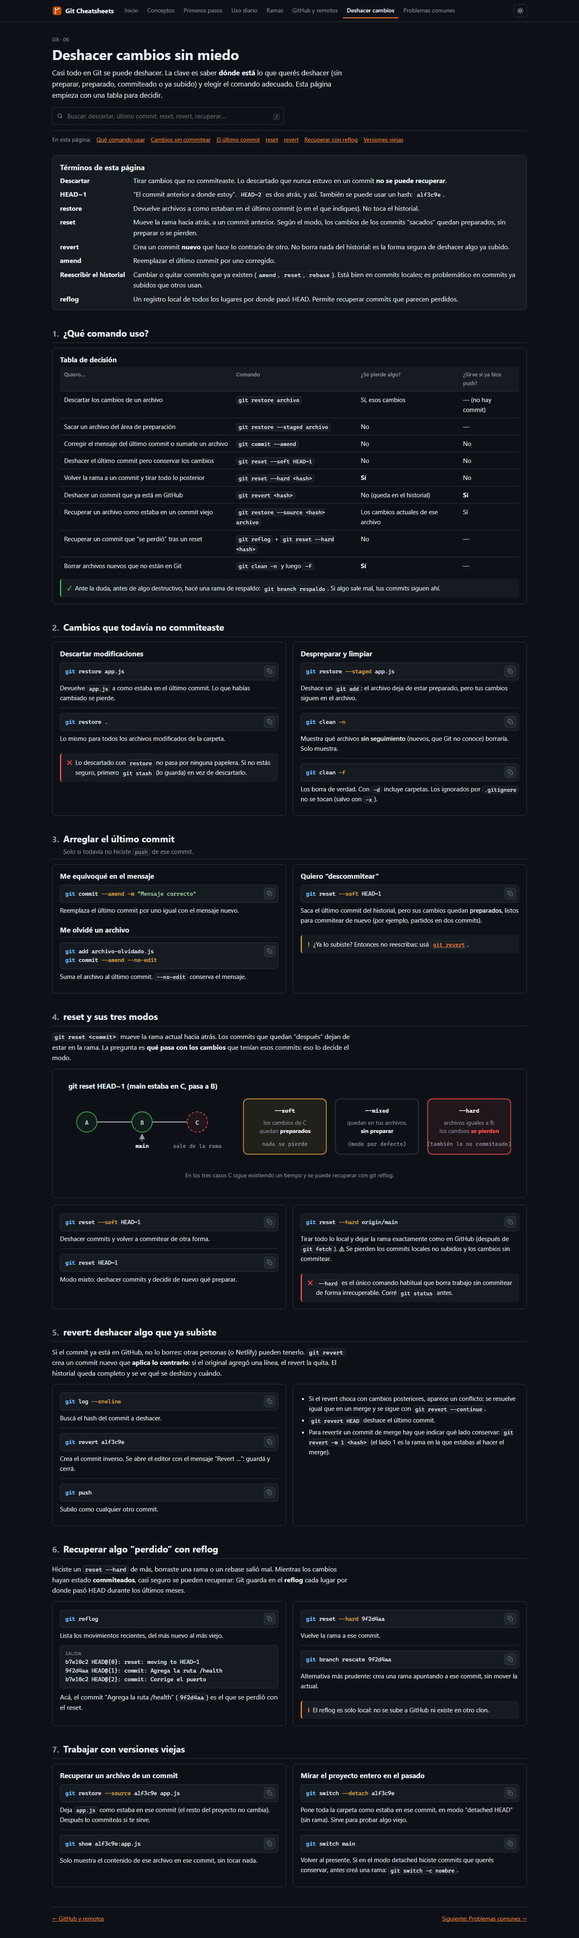
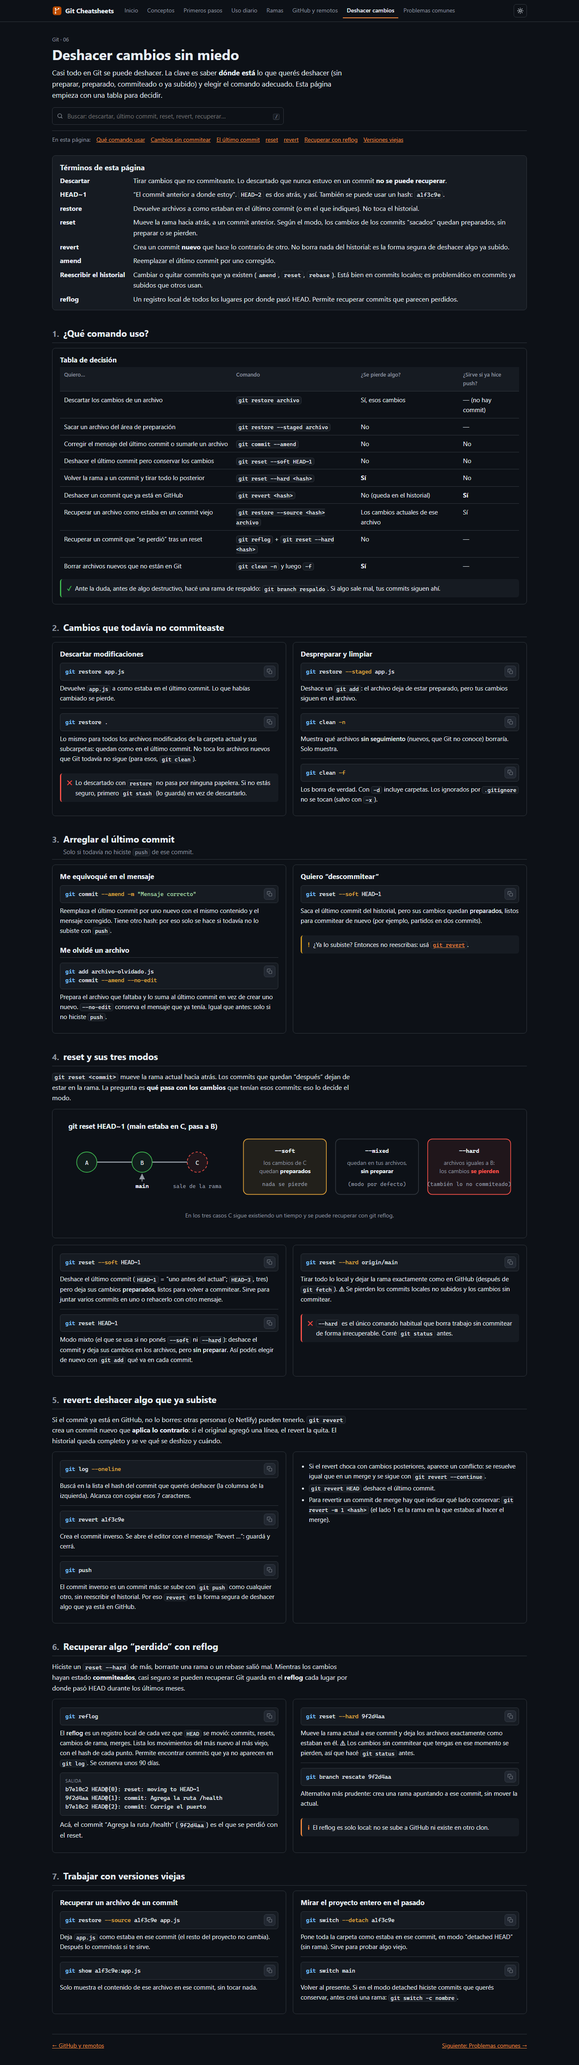
Amplía las descripciones cortas de comandos
Uso diario, ramas, GitHub, deshacer y primeros pasos. Regenera los PNG.

diff --git a/03-uso-diario.html b/03-uso-diario.html
@@ -94,9 +94,9 @@ Untracked files:
       <div class="titles"><h2>Preparar cambios (git add)</h2><p>Elegir qué va a entrar en el próximo commit.</p></div>
     </div>
     <div class="card">
-      <div class="cmd"><pre><code>git add app.js</code></pre><div class="what">Prepara un archivo puntual.</div></div>
+      <div class="cmd"><pre><code>git add app.js</code></pre><div class="what">Prepara solo ese archivo para el próximo commit; el resto de los cambios queda afuera. Podés nombrar varios separados por espacio (<code>git add app.js package.json</code>).</div></div>
       <div class="cmd"><pre><code>git add .</code></pre><div class="what">Prepara <b>todo</b> lo que cambió en la carpeta actual y sus subcarpetas (respetando el <code>.gitignore</code>). Mirá <code>git status</code> antes para no incluir algo de más.</div></div>
-      <div class="cmd"><pre><code>git add src/</code></pre><div class="what">Prepara todo lo de una carpeta.</div></div>
+      <div class="cmd"><pre><code>git add src/</code></pre><div class="what">Prepara todo lo que cambió dentro de la carpeta <code>src/</code> y sus subcarpetas, sin tocar lo que cambió fuera de ella.</div></div>
       <div class="cmd"><pre><code>git add -p</code></pre><div class="what">Modo interactivo: te muestra cada bloque de cambios y preguntás uno por uno (<code>y</code> = sí, <code>n</code> = no, <code>q</code> = salir). Sirve para dividir un archivo con dos cambios distintos en dos commits.</div></div>
       <div class="cmd"><pre><code>git restore --staged app.js</code></pre><div class="what">Lo contrario de <code>add</code>: saca el archivo del área de preparación. <b>No</b> pierde tus cambios; solo dejan de estar preparados.</div></div>
     </div>
@@ -111,7 +111,7 @@ Untracked files:
     <div class="grid cols-2">
       <div class="card">
         <h3>Formas de commitear</h3>
-        <div class="cmd"><pre><code>git commit -m "Agrega la ruta /health"</code></pre><div class="what">Guarda lo preparado con ese mensaje.</div></div>
+        <div class="cmd"><pre><code>git commit -m "Agrega la ruta /health"</code></pre><div class="what">Guarda en el historial todo lo que está preparado (lo que agregaste con <code>git add</code>), con ese mensaje. Lo no preparado queda sin guardar en la carpeta. Escribí el mensaje en presente y diciendo qué cambia, para que se entienda al leer el historial.</div></div>
         <div class="cmd"><pre><code>git commit</code></pre><div class="what">Sin <code>-m</code>, Git abre el editor configurado para que escribas un mensaje largo. Primera línea = título; línea vacía; después el detalle. Guardá y cerrá el editor para terminar.</div></div>
         <div class="cmd"><pre><code>git commit -am "Corrige el puerto"</code></pre><div class="what"><code>-a</code> prepara automáticamente los archivos <b>ya rastreados</b> que cambiaron y commitea en un paso. Los archivos nuevos no entran: esos necesitan <code>git add</code>.</div></div>
         <div class="cmd"><pre><code>git commit --amend -m "Mensaje corregido"</code></pre><div class="what">Reemplaza el <b>último</b> commit (para corregir el mensaje o sumar un archivo olvidado). Usalo solo si todavía no hiciste <code>push</code> de ese commit.</div></div>
@@ -141,21 +141,21 @@ para saber si el Pod está listo para recibir tráfico.</code></pre>
     <div class="grid cols-2">
       <div class="card">
         <h3>Variantes útiles</h3>
-        <div class="cmd"><pre><code>git log --oneline</code></pre><div class="what">Un commit por línea: hash corto y título.</div></div>
+        <div class="cmd"><pre><code>git log --oneline</code></pre><div class="what">Muestra el historial con un commit por línea: el <b>hash</b> corto (el identificador del commit) y la primera línea del mensaje. El más nuevo arriba.</div></div>
         <pre class="out"><code data-lang="plain">3ddb522 (HEAD -&gt; main, origin/main) Desactiva ligaduras en los chips
 71fc95b Update README.md
 279f465 first commit</code></pre>
         <div class="explain"><p><code>HEAD -&gt; main</code>: estás en <code>main</code>. <code>origin/main</code>: hasta dónde llega la rama en GitHub (según el último <code>fetch</code>/<code>pull</code>).</p></div>
         <div class="cmd"><pre><code>git log --oneline --graph --all</code></pre><div class="what">Dibuja las ramas con líneas: ideal para entender cómo se separan y se unen.</div></div>
-        <div class="cmd"><pre><code>git log -5</code></pre><div class="what">Solo los últimos 5 commits, con autor, fecha y mensaje completo.</div></div>
+        <div class="cmd"><pre><code>git log -5</code></pre><div class="what">Muestra solo los últimos 5 commits (cambiá el número a gusto), con el hash completo, autor, fecha y mensaje entero. Si la lista es larga, Git la muestra por páginas: <kbd>Espacio</kbd> avanza y <kbd>q</kbd> sale.</div></div>
       </div>
       <div class="card">
         <h3>Buscar en el historial</h3>
         <div class="cmd"><pre><code>git log --oneline -- app.js</code></pre><div class="what">Solo los commits que tocaron ese archivo. El <code>--</code> separa opciones de nombres de archivo.</div></div>
-        <div class="cmd"><pre><code>git log --stat</code></pre><div class="what">Además, qué archivos cambió cada commit y cuántas líneas.</div></div>
-        <div class="cmd"><pre><code>git log --author="&lt;nombre&gt;" --since="2 weeks ago"</code></pre><div class="what">Filtrar por autor y fecha.</div></div>
-        <div class="cmd"><pre><code>git log --grep="puerto"</code></pre><div class="what">Commits cuyo mensaje contiene esa palabra.</div></div>
-        <div class="cmd"><pre><code>git show 3ddb522</code></pre><div class="what">Todo sobre un commit: autor, fecha, mensaje y el diff completo.</div></div>
+        <div class="cmd"><pre><code>git log --stat</code></pre><div class="what">Además de cada commit, lista qué archivos tocó y cuántas líneas agregó (<code>+</code>) o quitó (<code>-</code>) en cada uno. Útil para encontrar cuándo se cambió algo.</div></div>
+        <div class="cmd"><pre><code>git log --author="&lt;nombre&gt;" --since="2 weeks ago"</code></pre><div class="what">Filtra el historial: solo commits de esa persona (alcanza con parte del nombre o el email) en las últimas dos semanas. Las fechas aceptan formas como <code>"2026-01-31"</code> o <code>"3 days ago"</code>.</div></div>
+        <div class="cmd"><pre><code>git log --grep="puerto"</code></pre><div class="what">Muestra solo los commits cuyo mensaje contiene esa palabra. Por eso conviene escribir mensajes descriptivos. Agregá <code>-i</code> para no distinguir mayúsculas.</div></div>
+        <div class="cmd"><pre><code>git show 3ddb522</code></pre><div class="what">Muestra todo sobre un commit: autor, fecha, mensaje y el <b>diff</b> (las líneas agregadas en verde con <code>+</code> y las quitadas en rojo con <code>-</code>). Alcanza con los primeros 7 caracteres del hash. <kbd>q</kbd> para salir.</div></div>
       </div>
     </div>
   </section>
@@ -171,9 +171,9 @@ para saber si el Pod está listo para recibir tráfico.</code></pre>
         <h3>Qué compara cada variante</h3>
         <div class="cmd"><pre><code>git diff</code></pre><div class="what">Cambios <b>no preparados</b>: carpeta de trabajo contra el área de preparación.</div></div>
         <div class="cmd"><pre><code>git diff --staged</code></pre><div class="what">Cambios <b>preparados</b>: lo que va a entrar en el próximo commit. Ideal para revisar antes de commitear.</div></div>
-        <div class="cmd"><pre><code>git diff HEAD</code></pre><div class="what">Todo lo que cambió desde el último commit, preparado o no.</div></div>
-        <div class="cmd"><pre><code>git diff main..nueva-ruta</code></pre><div class="what">Diferencias entre dos ramas.</div></div>
-        <div class="cmd"><pre><code>git diff --stat</code></pre><div class="what">Solo el resumen: archivos y cantidad de líneas.</div></div>
+        <div class="cmd"><pre><code>git diff HEAD</code></pre><div class="what">Todo lo que cambió desde el último commit, esté preparado o no. <code>HEAD</code> significa “el commit en el que estás parado”.</div></div>
+        <div class="cmd"><pre><code>git diff main..nueva-ruta</code></pre><div class="what">Muestra qué cambia en <code>nueva-ruta</code> respecto de <code>main</code>: lo que se agregaría al unirlas. Sirve para revisar una rama antes de hacer <code>merge</code> o abrir un pull request.</div></div>
+        <div class="cmd"><pre><code>git diff --stat</code></pre><div class="what">En vez de las líneas, un resumen: qué archivos cambiaron y cuántas líneas en cada uno. Se combina con las otras formas (<code>git diff --staged --stat</code>).</div></div>
       </div>
       <div class="card">
         <h3>Cómo leer un diff</h3>
@@ -217,13 +217,13 @@ para saber si el Pod está listo para recibir tráfico.</code></pre>
       <div class="card">
         <h3>Guardar y recuperar</h3>
         <div class="cmd"><pre><code>git stash push -m "mitad del formulario"</code></pre><div class="what">Guarda los cambios de archivos rastreados con un nombre. Con <code>-u</code> incluye también los archivos nuevos.</div></div>
-        <div class="cmd"><pre><code>git stash list</code></pre><div class="what">Lo que hay en el cajón: <code>stash@{0}</code> es el más reciente.</div></div>
-        <div class="cmd"><pre><code>git stash pop</code></pre><div class="what">Devuelve el último guardado a la carpeta y lo saca del cajón.</div></div>
+        <div class="cmd"><pre><code>git stash list</code></pre><div class="what">Lista lo que guardaste con <code>stash</code>, como un cajón: <code>stash@{0}</code> es lo último que guardaste, <code>stash@{1}</code> lo anterior, y así. Al lado aparece la rama donde estabas y el mensaje.</div></div>
+        <div class="cmd"><pre><code>git stash pop</code></pre><div class="what">Devuelve a tu carpeta los cambios del último stash y lo saca del cajón. Si esos cambios chocan con lo que tenés ahora, aparece un conflicto (se resuelve igual que en un merge) y el stash queda guardado.</div></div>
       </div>
       <div class="card">
         <h3>Más opciones</h3>
         <div class="cmd"><pre><code>git stash apply stash@{1}</code></pre><div class="what">Devuelve uno puntual pero lo deja en el cajón (sirve para aplicarlo en varias ramas).</div></div>
-        <div class="cmd"><pre><code>git stash drop stash@{1}</code></pre><div class="what">Borra uno del cajón.</div></div>
+        <div class="cmd"><pre><code>git stash drop stash@{1}</code></pre><div class="what">Borra un stash puntual sin aplicarlo: esos cambios se pierden. <code>git stash clear</code> vacía el cajón entero.</div></div>
         <div class="callout warn"><span class="ico">!</span><p>El stash es local y temporal: no se sube a GitHub. Para algo que dure, mejor un commit en una rama.</p></div>
       </div>
     </div>
@@ -239,8 +239,8 @@ para saber si el Pod está listo para recibir tráfico.</code></pre>
     <div class="grid cols-2">
       <div class="card">
         <div class="cmd"><pre><code>git tag -a v1.0.0 -m "Primera versión estable"</code></pre><div class="what">Crea un tag “anotado” (con autor, fecha y mensaje) en el commit actual. Es el tipo recomendado.</div></div>
-        <div class="cmd"><pre><code>git tag</code></pre><div class="what">Lista los tags.</div></div>
-        <div class="cmd"><pre><code>git show v1.0.0</code></pre><div class="what">Qué commit marca y su contenido.</div></div>
+        <div class="cmd"><pre><code>git tag</code></pre><div class="what">Lista todos los tags del repositorio, en orden alfabético. <code>git tag -l "v1.*"</code> filtra por patrón.</div></div>
+        <div class="cmd"><pre><code>git show v1.0.0</code></pre><div class="what">Muestra los datos del tag (quién lo creó, cuándo y su mensaje) y el commit al que apunta, con sus cambios. Los tags no se suben solos: <code>git push origin v1.0.0</code> (o <code>--tags</code> para todos).</div></div>
       </div>
       <div class="card">
         <div class="cmd"><pre><code>git push origin v1.0.0</code></pre><div class="what">Los tags <b>no</b> se suben con <code>git push</code> normal: hay que subirlos explícitamente (o todos con <code>git push --tags</code>).</div></div>

diff --git a/06-deshacer.html b/06-deshacer.html
@@ -95,7 +95,7 @@
       <div class="card">
         <h3>Descartar modificaciones</h3>
         <div class="cmd"><pre><code>git restore app.js</code></pre><div class="what">Devuelve <code>app.js</code> a como estaba en el último commit. Lo que habías cambiado se pierde.</div></div>
-        <div class="cmd"><pre><code>git restore .</code></pre><div class="what">Lo mismo para todos los archivos modificados de la carpeta.</div></div>
+        <div class="cmd"><pre><code>git restore .</code></pre><div class="what">Lo mismo para todos los archivos modificados de la carpeta actual y sus subcarpetas: quedan como en el último commit. No toca los archivos nuevos que Git todavía no sigue (para esos, <code>git clean</code>).</div></div>
         <div class="callout bad"><span class="ico">✕</span><p>Lo descartado con <code>restore</code> no pasa por ninguna papelera. Si no estás seguro, primero <code>git stash</code> (lo guarda) en vez de descartarlo.</p></div>
       </div>
       <div class="card">
@@ -116,10 +116,10 @@
     <div class="grid cols-2">
       <div class="card">
         <h3>Me equivoqué en el mensaje</h3>
-        <div class="cmd"><pre><code>git commit --amend -m "Mensaje correcto"</code></pre><div class="what">Reemplaza el último commit por uno igual con el mensaje nuevo.</div></div>
+        <div class="cmd"><pre><code>git commit --amend -m "Mensaje correcto"</code></pre><div class="what">Reemplaza el último commit por uno nuevo con el mismo contenido y el mensaje corregido. Tiene otro hash: por eso solo se hace si todavía no lo subiste con <code>push</code>.</div></div>
         <h3 style="margin-top:12px">Me olvidé un archivo</h3>
         <div class="cmd"><pre><code>git add archivo-olvidado.js
-git commit --amend --no-edit</code></pre><div class="what">Suma el archivo al último commit. <code>--no-edit</code> conserva el mensaje.</div></div>
+git commit --amend --no-edit</code></pre><div class="what">Prepara el archivo que faltaba y lo suma al último commit en vez de crear uno nuevo. <code>--no-edit</code> conserva el mensaje que ya tenía. Igual que antes: solo si no hiciste <code>push</code>.</div></div>
       </div>
       <div class="card">
         <h3>Quiero “descommitear”</h3>
@@ -174,8 +174,8 @@ git commit --amend --no-edit</code></pre><div class="what">Suma el archivo al ú
     </div>
     <div class="grid cols-2" style="margin-top:16px">
       <div class="card">
-        <div class="cmd"><pre><code>git reset --soft HEAD~1</code></pre><div class="what">Deshacer commits y volver a commitear de otra forma.</div></div>
-        <div class="cmd"><pre><code>git reset HEAD~1</code></pre><div class="what">Modo mixto: deshacer commits y decidir de nuevo qué preparar.</div></div>
+        <div class="cmd"><pre><code>git reset --soft HEAD~1</code></pre><div class="what">Deshace el último commit (<code>HEAD~1</code> = “uno antes del actual”; <code>HEAD~3</code>, tres) pero deja sus cambios <b>preparados</b>, listos para volver a commitear. Sirve para juntar varios commits en uno o rehacerlo con otro mensaje.</div></div>
+        <div class="cmd"><pre><code>git reset HEAD~1</code></pre><div class="what">Modo mixto (el que se usa si no ponés <code>--soft</code> ni <code>--hard</code>): deshace el commit y deja sus cambios en los archivos, pero <b>sin preparar</b>. Así podés elegir de nuevo con <code>git add</code> qué va en cada commit.</div></div>
       </div>
       <div class="card">
         <div class="cmd"><pre><code>git reset --hard origin/main</code></pre><div class="what">Tirar todo lo local y dejar la rama exactamente como en GitHub (después de <code>git fetch</code>). ⚠ Se pierden los commits locales no subidos y los cambios sin commitear.</div></div>
@@ -193,9 +193,9 @@ git commit --amend --no-edit</code></pre><div class="what">Suma el archivo al ú
     <div class="explain"><p>Si el commit ya está en GitHub, no lo borres: otras personas (o Netlify) pueden tenerlo. <code>git revert</code> crea un commit nuevo que <b>aplica lo contrario</b>: si el original agregó una línea, el revert la quita. El historial queda completo y se ve qué se deshizo y cuándo.</p></div>
     <div class="grid cols-2">
       <div class="card">
-        <div class="cmd"><pre><code>git log --oneline</code></pre><div class="what">Buscá el hash del commit a deshacer.</div></div>
+        <div class="cmd"><pre><code>git log --oneline</code></pre><div class="what">Buscá en la lista el hash del commit que querés deshacer (la columna de la izquierda). Alcanza con copiar esos 7 caracteres.</div></div>
         <div class="cmd"><pre><code>git revert a1f3c9e</code></pre><div class="what">Crea el commit inverso. Se abre el editor con el mensaje “Revert …”: guardá y cerrá.</div></div>
-        <div class="cmd"><pre><code>git push</code></pre><div class="what">Subilo como cualquier otro commit.</div></div>
+        <div class="cmd"><pre><code>git push</code></pre><div class="what">El commit inverso es un commit más: se sube con <code>git push</code> como cualquier otro, sin reescribir el historial. Por eso <code>revert</code> es la forma segura de deshacer algo que ya está en GitHub.</div></div>
       </div>
       <div class="card">
         <ul>
@@ -216,14 +216,14 @@ git commit --amend --no-edit</code></pre><div class="what">Suma el archivo al ú
     <div class="explain"><p>Hiciste un <code>reset --hard</code> de más, borraste una rama o un rebase salió mal. Mientras los cambios hayan estado <b>commiteados</b>, casi seguro se pueden recuperar: Git guarda en el <b>reflog</b> cada lugar por donde pasó HEAD durante los últimos meses.</p></div>
     <div class="grid cols-2">
       <div class="card">
-        <div class="cmd"><pre><code>git reflog</code></pre><div class="what">Lista los movimientos recientes, del más nuevo al más viejo.</div></div>
+        <div class="cmd"><pre><code>git reflog</code></pre><div class="what">El <b>reflog</b> es un registro local de cada vez que <code>HEAD</code> se movió: commits, resets, cambios de rama, merges. Lista los movimientos del más nuevo al más viejo, con el hash de cada punto. Permite encontrar commits que ya no aparecen en <code>git log</code>. Se conserva unos 90 días.</div></div>
         <pre class="out"><code data-lang="plain">b7e10c2 HEAD@{0}: reset: moving to HEAD~1
 9f2d4aa HEAD@{1}: commit: Agrega la ruta /health
 b7e10c2 HEAD@{2}: commit: Corrige el puerto</code></pre>
         <div class="explain" style="margin-top:8px"><p>Acá, el commit “Agrega la ruta /health” (<code>9f2d4aa</code>) es el que se perdió con el reset.</p></div>
       </div>
       <div class="card">
-        <div class="cmd"><pre><code>git reset --hard 9f2d4aa</code></pre><div class="what">Vuelve la rama a ese commit.</div></div>
+        <div class="cmd"><pre><code>git reset --hard 9f2d4aa</code></pre><div class="what">Mueve la rama actual a ese commit y deja los archivos exactamente como estaban en él. ⚠ Los cambios sin commitear que tengas en ese momento se pierden, así que hacé <code>git status</code> antes.</div></div>
         <div class="cmd"><pre><code>git branch rescate 9f2d4aa</code></pre><div class="what">Alternativa más prudente: crea una rama apuntando a ese commit, sin mover la actual.</div></div>
         <div class="callout info"><span class="ico">i</span><p>El reflog es solo local: no se sube a GitHub ni existe en otro clon.</p></div>
       </div>

diff --git a/04-ramas.html b/04-ramas.html
@@ -108,16 +108,16 @@
         <h3>Crear y cambiar</h3>
         <div class="cmd"><pre><code>git switch -c nueva-ruta</code></pre><div class="what">Crea la rama <code>nueva-ruta</code> a partir del commit actual y se cambia a ella (<code>-c</code> = <i>create</i>). Es lo que vas a usar casi siempre.</div></div>
         <div class="cmd"><pre><code>git switch main</code></pre><div class="what">Cambia a una rama que ya existe. Los archivos de la carpeta pasan a ser los de esa rama.</div></div>
-        <div class="cmd"><pre><code>git switch -</code></pre><div class="what">Vuelve a la rama anterior (como el “atrás” del navegador).</div></div>
+        <div class="cmd"><pre><code>git switch -</code></pre><div class="what">Vuelve a la rama en la que estabas antes del último cambio, como el botón “atrás” del navegador. Repetirlo te lleva de nuevo a la otra: sirve para ir y venir entre dos ramas.</div></div>
         <div class="callout info"><span class="ico">i</span><p>En tutoriales viejos vas a ver <code>git checkout -b nueva-ruta</code> y <code>git checkout main</code>: hacen lo mismo.</p></div>
       </div>
       <div class="card">
         <h3>Ver, renombrar y borrar</h3>
-        <div class="cmd"><pre><code>git branch</code></pre><div class="what">Lista las ramas locales; la actual tiene <code>*</code>.</div></div>
-        <div class="cmd"><pre><code>git branch -a</code></pre><div class="what">Incluye las ramas del remoto (aparecen como <code>remotes/origin/...</code>).</div></div>
-        <div class="cmd"><pre><code>git branch -m nombre-nuevo</code></pre><div class="what">Renombra la rama actual.</div></div>
+        <div class="cmd"><pre><code>git branch</code></pre><div class="what">Lista las ramas que tenés en tu PC; la actual está marcada con <code>*</code>. Con <code>-v</code> muestra además el último commit de cada una.</div></div>
+        <div class="cmd"><pre><code>git branch -a</code></pre><div class="what">Incluye las ramas del remoto que Git conoce desde el último <code>fetch</code>; aparecen como <code>remotes/origin/nombre</code>. Para trabajar en una de ellas, <code>git switch nombre</code> crea la rama local conectada.</div></div>
+        <div class="cmd"><pre><code>git branch -m nombre-nuevo</code></pre><div class="what">Cambia el nombre de la rama en la que estás (<code>-m</code> = <i>move</i>). Si ya la habías subido, en GitHub sigue con el nombre viejo: subí la nueva con <code>git push -u origin nombre-nuevo</code> y borrá la vieja allá.</div></div>
         <div class="cmd"><pre><code>git branch -d nueva-ruta</code></pre><div class="what">Borra una rama que ya se unió. Si tiene commits sin unir, Git se niega para protegerte; <code>-D</code> la borra igual (se pierden esos commits).</div></div>
-        <div class="cmd"><pre><code>git push origin --delete nueva-ruta</code></pre><div class="what">Borra la rama en GitHub.</div></div>
+        <div class="cmd"><pre><code>git push origin --delete nueva-ruta</code></pre><div class="what">Borra la rama en GitHub (en el remoto <code>origin</code>). <code>git branch -d</code> solo borra la copia de tu PC; para quitarla de los dos lados, hacen falta los dos comandos.</div></div>
       </div>
     </div>
     <div class="callout warn"><span class="ico">!</span><p><b>Cambios sin commitear al cambiar de rama:</b> si tus cambios no chocan con la otra rama, viajan con vos. Si chocan, Git no te deja cambiar (<i>“Your local changes would be overwritten”</i>). Commiteá primero o guardalos con <code>git stash</code>.</p></div>
@@ -138,7 +138,7 @@
 git pull
 git merge nueva-ruta</code></pre><div class="what">1) Ir a la rama destino. 2) Traer lo último del remoto. 3) Unir <code>nueva-ruta</code> dentro de <code>main</code>.</div></div>
         <div class="cmd"><pre><code>git push
-git branch -d nueva-ruta</code></pre><div class="what">Subir el resultado y borrar la rama, que ya no hace falta.</div></div>
+git branch -d nueva-ruta</code></pre><div class="what"><code>git push</code> sube a GitHub el <code>main</code> con la rama ya unida. Después, <code>git branch -d</code> borra la rama local: sus commits ya forman parte de <code>main</code>, así que no se pierde nada.</div></div>
       </div>
       <div class="card">
         <h3>Qué podés ver al hacer merge</h3>

diff --git a/02-primeros-pasos.html b/02-primeros-pasos.html
@@ -115,7 +115,7 @@
         <h3>Quién sos (obligatorio)</h3>
         <div class="explain"><p>Cada commit guarda nombre y email del autor. Sin esto, Git no te deja hacer commits. Usá <b>el mismo email que tu cuenta de GitHub</b>, así GitHub asocia los commits con tu perfil.</p></div>
         <div class="cmd"><pre><code>git config --global user.name "&lt;Tu Nombre&gt;"
-git config --global user.email "&lt;tu-email@ejemplo.com&gt;"</code></pre><div class="what">Las comillas son necesarias si el nombre tiene espacios.</div></div>
+git config --global user.email "&lt;tu-email@ejemplo.com&gt;"</code></pre><div class="what">Le dice a Git qué nombre poner como autor en cada commit que hagas (<code>--global</code> = para todos los proyectos de esta PC). Las comillas son necesarias si el nombre tiene espacios. Se configura una sola vez.</div></div>
       </div>
       <div class="card">
         <h3>Preferencias recomendadas</h3>
@@ -125,7 +125,7 @@ git config --global user.email "&lt;tu-email@ejemplo.com&gt;"</code></pre><div c
       </div>
       <div class="card wide">
         <h3>Revisar lo configurado</h3>
-        <div class="cmd"><pre><code>git config --global --list</code></pre><div class="what">Muestra toda tu configuración global.</div></div>
+        <div class="cmd"><pre><code>git config --global --list</code></pre><div class="what">Muestra toda tu configuración global, una línea por opción (<code>user.name=…</code>, <code>user.email=…</code>). Sirve para comprobar que quedó bien. Si la lista es larga, <kbd>q</kbd> sale.</div></div>
         <pre class="out"><code data-lang="plain">user.name=Tu Nombre
 user.email=tu-email@ejemplo.com
 init.defaultbranch=main
@@ -201,7 +201,7 @@ Untracked files:
  1 file changed, 3 insertions(+)
  create mode 100644 README.md</code></pre>
         <div class="explain"><p><code>a1f3c9e</code> es el hash de tu commit (el tuyo va a ser otro). <i>root-commit</i> significa que es el primero del repo.</p></div>
-        <div class="cmd"><pre><code>git log --oneline</code></pre><div class="what">El historial, un commit por línea.</div></div>
+        <div class="cmd"><pre><code>git log --oneline</code></pre><div class="what">Muestra el historial con un commit por línea: el hash corto (el identificador del commit) y el mensaje. Por ahora vas a ver uno solo.</div></div>
         <pre class="out"><code data-lang="plain">a1f3c9e (HEAD -&gt; main) Primer commit: agrega README</code></pre>
       </div>
     </div>
@@ -341,7 +341,7 @@ git clone https://github.com/&lt;usuario&gt;/mi-proyecto.git</code></pre><div cl
 remote: Enumerating objects: 6, done.
 Receiving objects: 100% (6/6), done.</code></pre>
         <div class="cmd"><pre><code>cd mi-proyecto
-git log --oneline</code></pre><div class="what">Entrás y ves el mismo historial que en la otra computadora.</div></div>
+git log --oneline</code></pre><div class="what">Entrás a la carpeta que creó <code>git clone</code>. Ya es un repositorio completo: <code>git log</code> muestra el mismo historial que en la otra computadora y <code>git remote -v</code> confirma que está conectado a GitHub.</div></div>
       </div>
       <div class="card">
         <h3>Resumen: ¿init o clone?</h3>

diff --git a/05-github.html b/05-github.html
@@ -127,8 +127,8 @@ git remote remove github</code></pre><div class="what">Renombrar o quitar un rem
       <div class="card">
         <h3>Traer cambios</h3>
         <div class="cmd"><pre><code>git fetch</code></pre><div class="what">Descarga novedades de todas las ramas del remoto. Después, <code>git status</code> te dice si estás atrás (<i>behind</i>) o adelante (<i>ahead</i>).</div></div>
-        <div class="cmd"><pre><code>git log --oneline main..origin/main</code></pre><div class="what">Qué commits hay en GitHub que todavía no tenés.</div></div>
-        <div class="cmd"><pre><code>git pull</code></pre><div class="what">Trae y une a tu rama actual. Hacelo al empezar a trabajar.</div></div>
+        <div class="cmd"><pre><code>git log --oneline main..origin/main</code></pre><div class="what">Después de un <code>git fetch</code>, lista los commits que están en GitHub (<code>origin/main</code>) y todavía no en tu <code>main</code>: lo que vas a recibir con el próximo <code>pull</code>. Al revés (<code>origin/main..main</code>) muestra lo tuyo que falta subir.</div></div>
+        <div class="cmd"><pre><code>git pull</code></pre><div class="what">Descarga los commits nuevos del remoto y los une a tu rama actual (es <code>fetch</code> + <code>merge</code>). Hacelo al empezar a trabajar y antes de <code>push</code>. Si vos y otra persona cambiaron las mismas líneas, aparece un conflicto (ver <a href="04-ramas.html">Ramas</a>).</div></div>
       </div>
       <div class="card">
         <h3>Subir cambios</h3>
